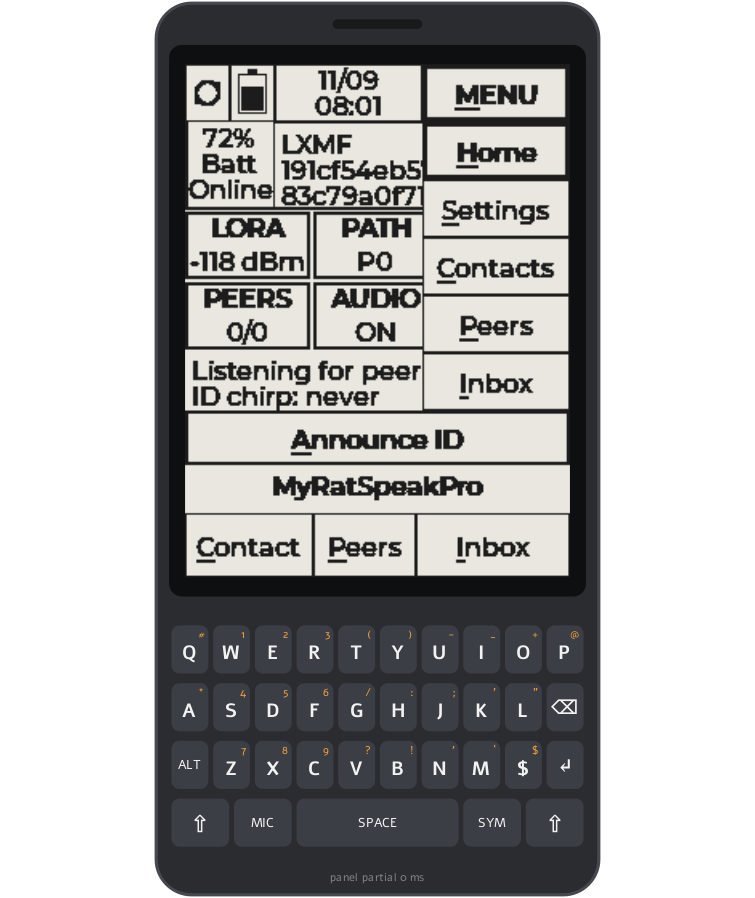
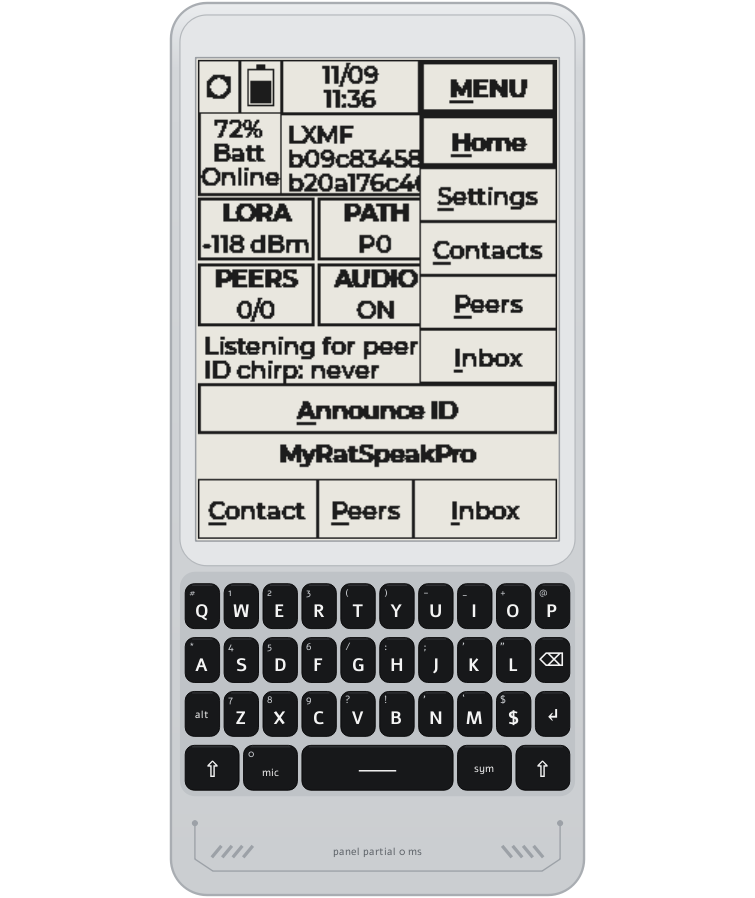
Simulator: draw the T-Deck Pro like the real one (light frosted case, black keys)
Light-grey case and screen surround, frosted keyboard plate, black glossy keys
with white legends and small symbol legends top-left (0 on MIC), a bar on the
space key and the circuit-trace band under the keyboard. Taller drawing to fit
that band. Updated the README screenshot.

diff --git a/sim/app/DeviceWidget.cpp b/sim/app/DeviceWidget.cpp
@@ -10,16 +10,19 @@
 
 namespace {
 // Device drawing units: 1 unit = 1 panel pixel.
-constexpr double kDevW = 280, kDevH = 560;
+constexpr double kDevW = 280, kDevH = 600;
 const QRectF kScreen(20, 40, 240, 320);
 const QRectF kBezel(10, 28, 260, 344);
 constexpr double kKbY = 390, kKeyW = 23, kKeyH = 30, kGap = 3, kPitch = 36;
 
-const QColor kBody(0x2a, 0x2c, 0x30), kBodyEdge(0x45, 0x48, 0x4e);
-const QColor kBezelC(0xf3, 0xf2, 0xee), kBezelEdge(0xc9, 0xc8, 0xc2);   // white-ish, like the device
+// Colours from the device photo: frosted light-grey case, light screen surround,
+// black keys with white legends.
+const QColor kBody(0xd3, 0xd6, 0xd9), kBodyEdge(0xa9, 0xad, 0xb2), kBodyShine(0xec, 0xee, 0xf0);
+const QColor kBezelC(0xe4, 0xe6, 0xe8), kBezelEdge(0xb4, 0xb8, 0xbc), kGlassEdge(0x9a, 0x9e, 0xa3);
+const QColor kPlate(0xbf, 0xc3, 0xc7), kTrace(0x9c, 0xa1, 0xa7);
 const QColor kPaper(0xe9, 0xe7, 0xdf), kInk(0x1c, 0x1c, 0x1c);
-const QColor kCap(0x3b, 0x3e, 0x44), kCapDown(0x6a, 0x6f, 0x78), kLegend(0xf2, 0xf2, 0xf2);
-const QColor kSym(0xf0, 0xa0, 0x40), kGlow(0x9f, 0xd4, 0xff);
+const QColor kCap(0x17, 0x18, 0x1a), kCapDown(0x50, 0x53, 0x58), kLegend(0xf4, 0xf4, 0xf4);
+const QColor kSym(0xc8, 0xcb, 0xcf), kGlow(0x9f, 0xd4, 0xff);
 
 struct KeyDef { const char* label; const char* sym; };
 // Left-to-right as printed on the device; matrix column = 9 - position (firmware kMap).
@@ -27,7 +30,7 @@ const KeyDef kRow0[10] = {{"Q", "#"}, {"W", "1"}, {"E", "2"}, {"R", "3"}, {"T", 
                           {"Y", ")"}, {"U", "-"}, {"I", "_"}, {"O", "+"}, {"P", "@"}};
 const KeyDef kRow1[10] = {{"A", "*"}, {"S", "4"}, {"D", "5"}, {"F", "6"}, {"G", "/"},
                           {"H", ":"}, {"J", ";"}, {"K", "'"}, {"L", "\""}, {"⌫", ""}};
-const KeyDef kRow2[10] = {{"ALT", ""}, {"Z", "7"}, {"X", "8"}, {"C", "9"}, {"V", "?"},
+const KeyDef kRow2[10] = {{"alt", ""}, {"Z", "7"}, {"X", "8"}, {"C", "9"}, {"V", "?"},
                           {"B", "!"}, {"N", "'"}, {"M", "`"}, {"$", "$"}, {"↵", ""}};
 
 // PC characters typed via the SYM layer: char -> device letter.
@@ -44,7 +47,7 @@ QString symLetterFor(QChar c) {
 
 DeviceWidget::DeviceWidget(QWidget* parent) : QWidget(parent) {
     setFocusPolicy(Qt::StrongFocus);
-    setMinimumSize(280, 560);
+    setMinimumSize(280, 600);
     auto addRow = [&](const KeyDef* defs, int row, double y) {
         const double x0 = (kDevW - (10 * kKeyW + 9 * kGap)) / 2;
         for (int i = 0; i < 10; i++)
@@ -58,12 +61,12 @@ DeviceWidget::DeviceWidget(QWidget* parent) : QWidget(parent) {
     const double y3 = kKbY + 3 * kPitch, x0 = (kDevW - (10 * kKeyW + 9 * kGap)) / 2;
     const double mod = 36, space = (10 * kKeyW + 9 * kGap) - 4 * mod - 4 * kGap;
     double x = x0;
-    auto add3 = [&](uint8_t col, const char* label, double w) {
-        keys_.push_back({3, col, QString::fromUtf8(label), QString(), QRectF(x, y3, w, kKeyH)});
+    auto add3 = [&](uint8_t col, const char* label, double w, const char* sym = "") {
+        keys_.push_back({3, col, QString::fromUtf8(label), QString::fromUtf8(sym), QRectF(x, y3, w, kKeyH)});
         x += w + kGap;
     };
     add3(4, "⇧", mod);
-    add3(3, "MIC", mod);
+    add3(3, "MIC", mod, "0");
     add3(2, "SPACE", space);
     add3(1, "SYM", mod);
     add3(0, "⇧", mod);
@@ -72,7 +75,7 @@ DeviceWidget::DeviceWidget(QWidget* parent) : QWidget(parent) {
     startTimer(30);
 }
 
-QSize DeviceWidget::sizeHint() const { return QSize(448, 896); }
+QSize DeviceWidget::sizeHint() const { return QSize(448, 960); }
 
 QTransform DeviceWidget::devToWidget() const {
     const double s = std::min(width() / kDevW, height() / kDevH);
@@ -131,47 +134,79 @@ void DeviceWidget::paintEvent(QPaintEvent*) {
     if (vibrating_) t.translate((sim::nowMs() / 16 % 2) ? 1.2 : -1.2, 0);
     p.setTransform(t);
 
-    // Body
-    p.setPen(QPen(kBodyEdge, 2));
-    p.setBrush(kBody);
-    p.drawRoundedRect(QRectF(2, 2, kDevW - 4, kDevH - 4), 22, 22);
-    // Speaker slot + status LEDs
-    p.setPen(Qt::NoPen);
-    p.setBrush(QColor(0x18, 0x19, 0x1b));
-    p.drawRoundedRect(QRectF(kDevW / 2 - 28, 12, 56, 6), 3, 3);
-    if ((int32_t)(beepFlashUntil_ - sim::nowMs()) > 0) {
-        p.setBrush(QColor(0x60, 0xd0, 0x80));
-        p.drawEllipse(QPointF(kDevW / 2 + 40, 15), 3, 3);
-    }
-    // Bezel + screen
-    p.setBrush(kBezelC);
-    p.drawRoundedRect(kBezel, 8, 8);
-    p.drawImage(kScreen, panel_);
+    // Body: frosted light-grey case with a soft top highlight
+    QLinearGradient bodyGrad(0, 0, 0, kDevH);
+    bodyGrad.setColorAt(0, kBodyShine);
+    bodyGrad.setColorAt(0.08, kBody);
+    bodyGrad.setColorAt(1, kBody.darker(104));
+    p.setPen(QPen(kBodyEdge, 1.6));
+    p.setBrush(bodyGrad);
+    p.drawRoundedRect(QRectF(2, 2, kDevW - 4, kDevH - 4), 24, 24);
+    // Screen module: a lighter raised surround
     p.setPen(QPen(kBezelEdge, 0.8));
-    p.setBrush(Qt::NoBrush);
-    p.drawRect(kScreen.adjusted(-0.5, -0.5, 0.5, 0.5));   // panel edge against the light bezel
+    p.setBrush(kBezelC);
+    p.drawRoundedRect(QRectF(8, 10, kDevW - 16, 368), 18, 18);
+    // Beep indicator
+    p.setPen(Qt::NoPen);
+    if ((int32_t)(beepFlashUntil_ - sim::nowMs()) > 0) {
+        p.setBrush(QColor(0x40, 0xb0, 0x60));
+        p.drawEllipse(QPointF(kDevW / 2, 24), 3, 3);
+    }
+    // E-ink glass + panel
+    p.setPen(QPen(kGlassEdge, 1.0));
+    p.setBrush(kPaper);
+    p.drawRect(kScreen.adjusted(-1.5, -1.5, 1.5, 1.5));
+    p.drawImage(kScreen, panel_);
+
+    // Keyboard plate (frosted, darker) and the circuit-trace decoration below it
+    p.setPen(Qt::NoPen);
+    p.setBrush(kPlate);
+    p.drawRoundedRect(QRectF(8, kKbY - 8, kDevW - 16, 4 * kPitch + 6), 10, 10);
+    {
+        const double yb = kKbY + 4 * kPitch + 14;      // band under the keys
+        QPen tp(kTrace, 0.9);
+        p.setPen(tp);
+        p.setBrush(Qt::NoBrush);
+        QPainterPath tr;
+        tr.moveTo(18, yb + 2); tr.lineTo(18, yb + 26); tr.lineTo(30, yb + 34); tr.lineTo(kDevW - 30, yb + 34);
+        tr.lineTo(kDevW - 18, yb + 26); tr.lineTo(kDevW - 18, yb + 2);
+        p.drawPath(tr);
+        p.setBrush(kTrace);
+        for (double x : {18.0, kDevW - 18.0}) p.drawEllipse(QPointF(x, yb + 2), 1.6, 1.6);
+        p.setPen(QPen(kTrace, 2.2));
+        for (int i = 0; i < 4; i++) {                     // chevron stripes, left and right
+            p.drawLine(QPointF(30 + i * 7, yb + 24), QPointF(35 + i * 7, yb + 18));
+            p.drawLine(QPointF(kDevW - 30 - i * 7, yb + 24), QPointF(kDevW - 35 - i * 7, yb + 18));
+        }
+    }
 
     // Keyboard
     QFont f = font();
     for (const auto& k : keys_) {
-        p.setPen(Qt::NoPen);
+        p.setPen(QPen(QColor(0x05, 0x05, 0x06), 0.6));
         p.setBrush(k.held ? kCapDown : kCap);
-        p.drawRoundedRect(k.rect, 5, 5);
+        p.drawRoundedRect(k.rect, 6, 6);
+        p.setPen(QPen(QColor(0x3a, 0x3c, 0x40), 0.6));   // top-edge sheen of a glossy cap
+        p.drawLine(k.rect.topLeft() + QPointF(5, 1), k.rect.topRight() + QPointF(-5, 1));
         const bool wide = k.label.size() > 2;
-        f.setPixelSize(wide ? 8 : 12);
+        f.setPixelSize(wide ? 7 : 12);
         f.setBold(!wide);
         p.setFont(f);
         p.setPen(backlight_ ? kGlow : kLegend);
-        p.drawText(k.rect.adjusted(0, k.sym.isEmpty() ? 0 : 4, 0, 0), Qt::AlignCenter, k.label);
+        p.drawText(k.rect.adjusted(0, k.sym.isEmpty() ? 0 : 6, 0, 0), Qt::AlignCenter, k.label.toLower() == "space" ? QString() : (wide ? k.label.toLower() : k.label));
+        if (k.label.toLower() == "space") {                 // space bar: a bar glyph like the cap
+            p.drawLine(QPointF(k.rect.center().x() - 12, k.rect.center().y() + 2),
+                       QPointF(k.rect.center().x() + 12, k.rect.center().y() + 2));
+        }
         if (!k.sym.isEmpty()) {
             f.setPixelSize(7); f.setBold(false); p.setFont(f);
-            p.setPen(kSym);
-            p.drawText(k.rect.adjusted(2, 1, -2, 0), Qt::AlignRight | Qt::AlignTop, k.sym);
+            p.setPen(backlight_ ? kGlow : kSym);
+            p.drawText(k.rect.adjusted(3, 1, -2, 0), Qt::AlignLeft | Qt::AlignTop, k.sym);
         }
     }
     f.setPixelSize(7); f.setBold(false); p.setFont(f);
-    p.setPen(QColor(0x80, 0x84, 0x8a));
-    p.drawText(QRectF(0, kDevH - 18, kDevW, 10), Qt::AlignCenter,
+    p.setPen(QColor(0x5c, 0x61, 0x67));
+    p.drawText(QRectF(0, kKbY + 4 * kPitch + 30, kDevW, 10), Qt::AlignCenter,
                !footer_.isEmpty() ? footer_
                                   : QString("panel %1 %2 ms").arg(lastFull_ ? "full" : "partial").arg(lastRefreshMs_));
 }
